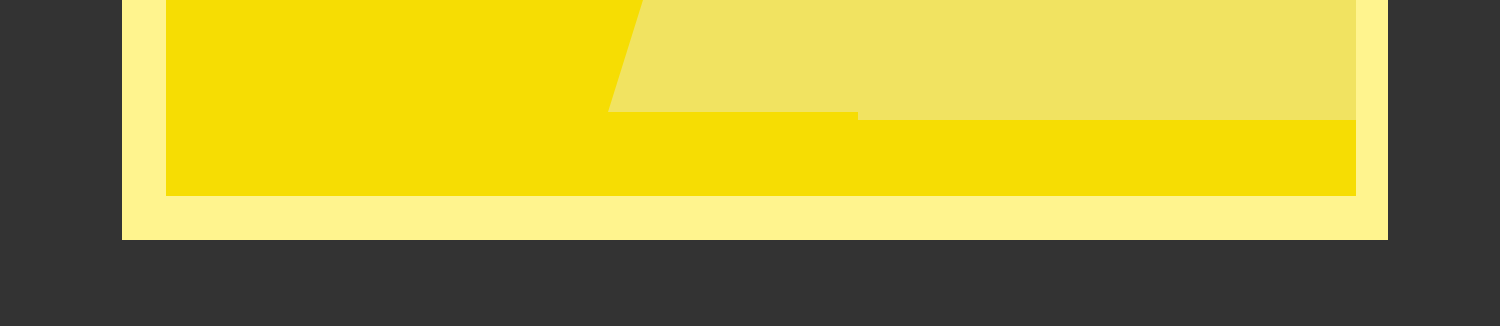
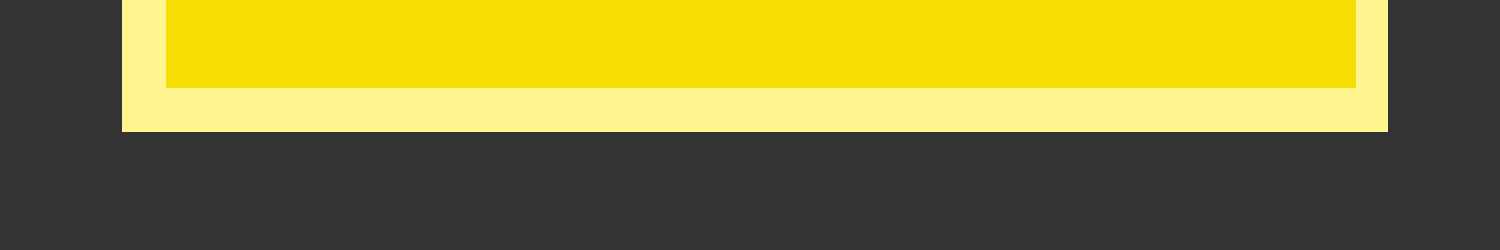
ch

diff --git a/index.html b/index.html
@@ -19,12 +19,6 @@
     	<div class="contents1 wi">
     		<img src="./LP1.png" style="width:100%">
     	</div>
-    	<div class="contents_add wi">
-    		<div class="aaa">
-    			<img src="./LP1_add_l.png" style="width:100%">
-    		</div>
-    		<div class="aa">　</div>
-    	</div>
     	<div class="contents2 wi">
     		<img src="./LP2.png" style="width:100%">
     	</div>
@@ -38,7 +32,7 @@
 						<dd><input type="text" name="Mail" value="" style="width:50%"></dd>
 				</dl>
 				<br>
-				<div class="center wi" style="margin-top:-10px">
+				<div class="center wi button" style="margin-top:-10px">
 					<input type="submit" class="btn-square-shadow" name="submit" value=" 送信 " /  >
 				</div>
 			</form>
@@ -71,7 +65,7 @@
 						<dd><input type="text" name="Mail" value="" style="width:50%"></dd>
 				</dl>
 				<br>
-				<div class="center wi" style="margin-top:-10px">
+				<div class="center wi botton" style="margin-top:-10px">
 					<input type="submit" class="btn-square-shadow" name="submit" value=" 送信 " /  >
 				</div>
 			</form>
@@ -98,7 +92,7 @@
 						<dd><input type="text" name="Mail" value="" style="width:50%"></dd>
 				</dl>
 				<br>
-				<div class="center wi" style="margin-top:-10px">
+				<div class="center wi botton" style="margin-top:-10px">
 					<input type="submit" class="btn-square-shadow" name="submit" value=" 送信 " /  >
 				</div>
 			</form>
@@ -116,13 +110,13 @@
 						<dd><input type="text" name="Mail" value="" style="width:50%"></dd>
 				</dl>
 				<br>
-				<div class="center wi" style="margin-top:-10px">
+				<div class="center wi botton" style="margin-top:-10px">
 					<input type="submit" class="btn-square-shadow" name="submit" value=" 送信 " /  >
 				</div>
 			</form>
 		</div>
 		<div class="contents2_add wi">
-    		<img src="./LP2_add_u.png" style="width:100%">
+    		<img src="./LP9_add2_u.png" style="width:100%">
     	</div>
 		
 		<table class="company wi">

diff --git a/style.css b/style.css
@@ -68,6 +68,7 @@ dl{
     background:#333333;
 } 
 .pub_form{
+    font-size:0.6rem;
     color: white;
 }
 .polisy{
@@ -125,18 +126,17 @@ th  { background: #f4f4f4; }
     }
   .company tr:first-child th { border-top: 1px solid #ddd; }
 }
-
+.button{
+  margin-top:-10px;
+}
 .btn-square-shadow {
-    width: 80%;
+    width: 40%;
     text-align: center;
     display: inline-block;
-    padding: 0.5em 1em;
     text-decoration: none;
     background: #FF0606;
     color: #FFF;
     border-bottom: solid 4px #C00000;
-    border-radius: 3px;
-    position: relative;
 }
 .btn-square-shadow:active {
   /*ボタンを押したとき*/
@@ -163,6 +163,16 @@ th  { background: #f4f4f4; }
     .form-group_l{
         margin:-3px auto;
         padding-bottom: 50px;
+    }
+    .btn-square-shadow {
+      width: 80%;
+      padding: 10px 10px;
+    }
+    .pub_form{
+      font-size: 1.2rem;
+    }
+    .button{
+      margin-top:0;
     }
 }
 
